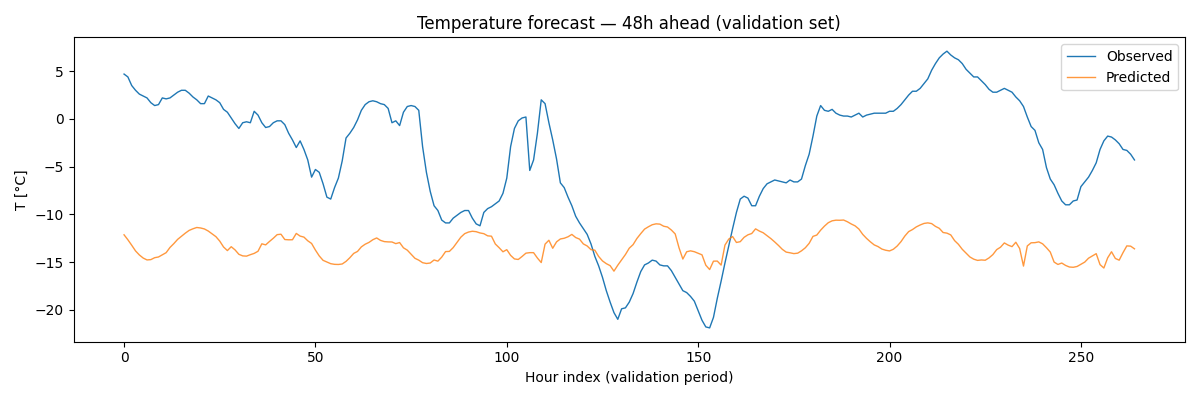
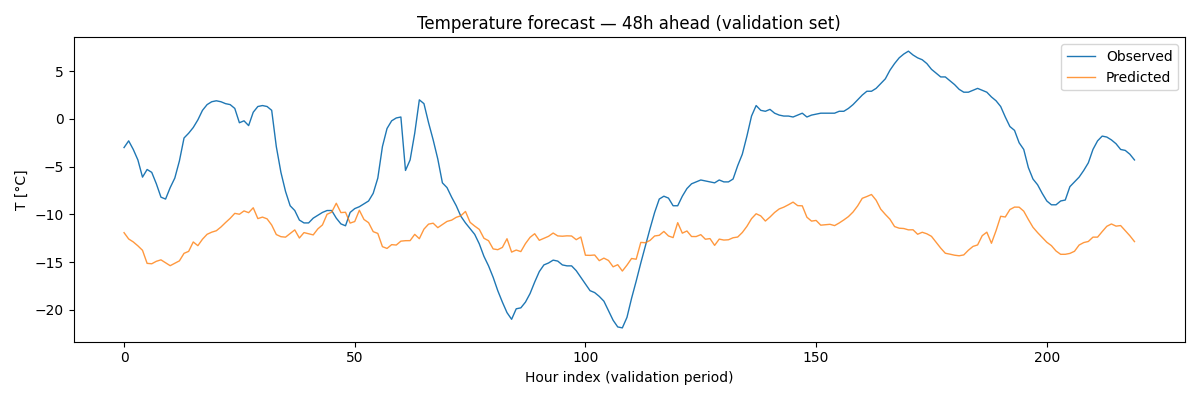
Iterations 2 and 3

diff --git a/main.py b/main.py
@@ -126,11 +126,15 @@ def design_matrix(df: pd.DataFrame, horizon: int):
 
     data = df.copy()
 
-    data = add_lags(data, "T", [1, 2, 3])
+    data = add_lags(data, "T", [1, 3, 6, 12, 24, 48])
+    data = add_lags(data, "RH", [1, 2, 3])
 
     feature_cols = [
-        "T_lag1", "T_lag2", "T_lag3",
-        "Prec",
+        "T_lag1", "T_lag3", "T_lag6", "T_lag12", "T_lag24", "T_lag48",
+        "Wd", 
+        "RH_lag1", "RH_lag2", "RH_lag3",
+        "P", 
+        "Cloud",
         "sin_day", "cos_day",
         "sin_year", "cos_year",
     ]
